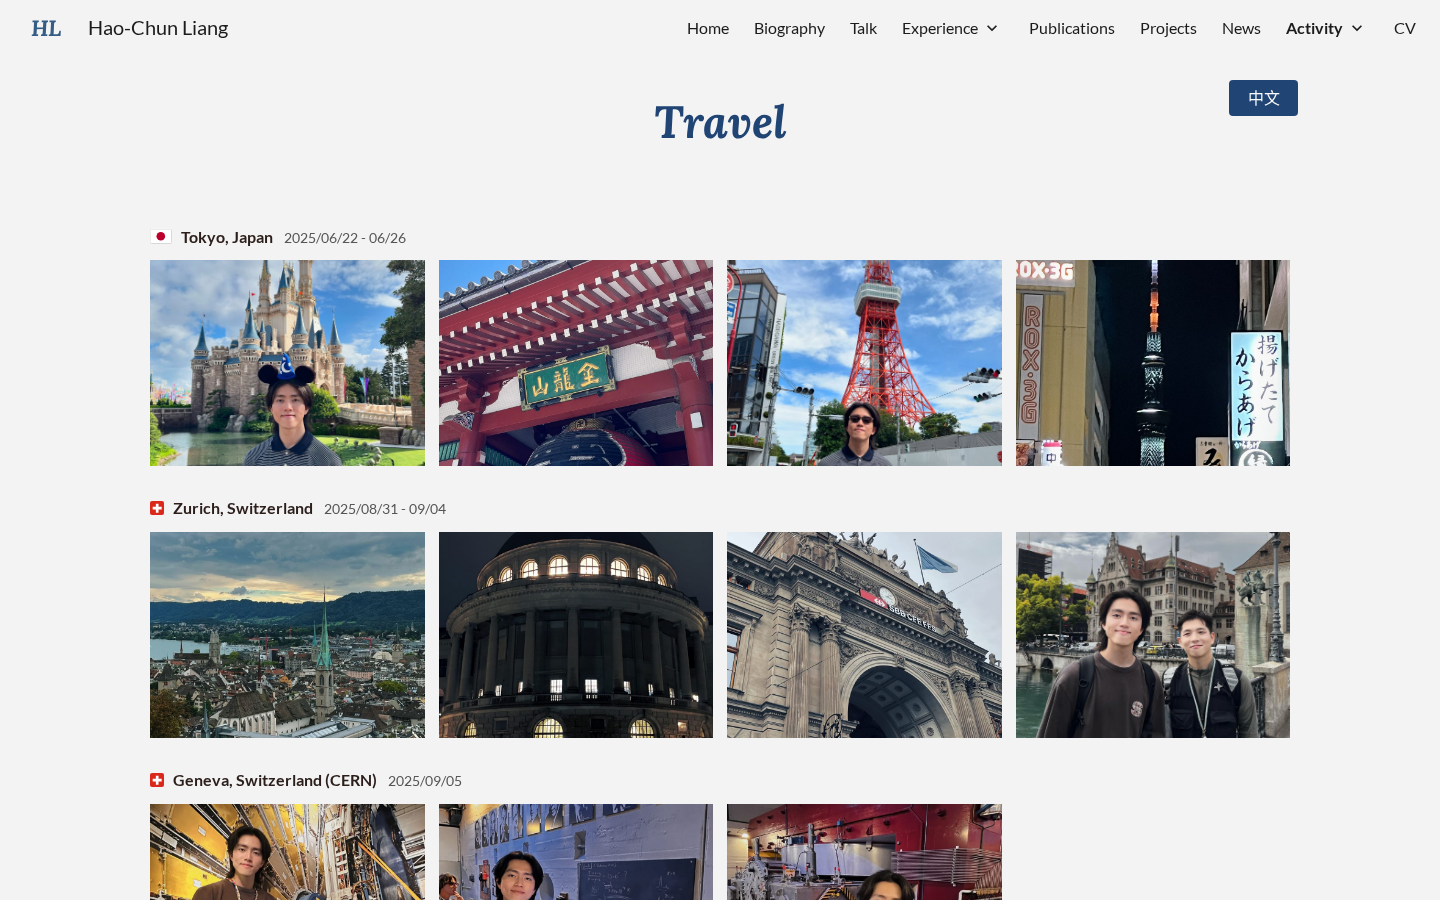
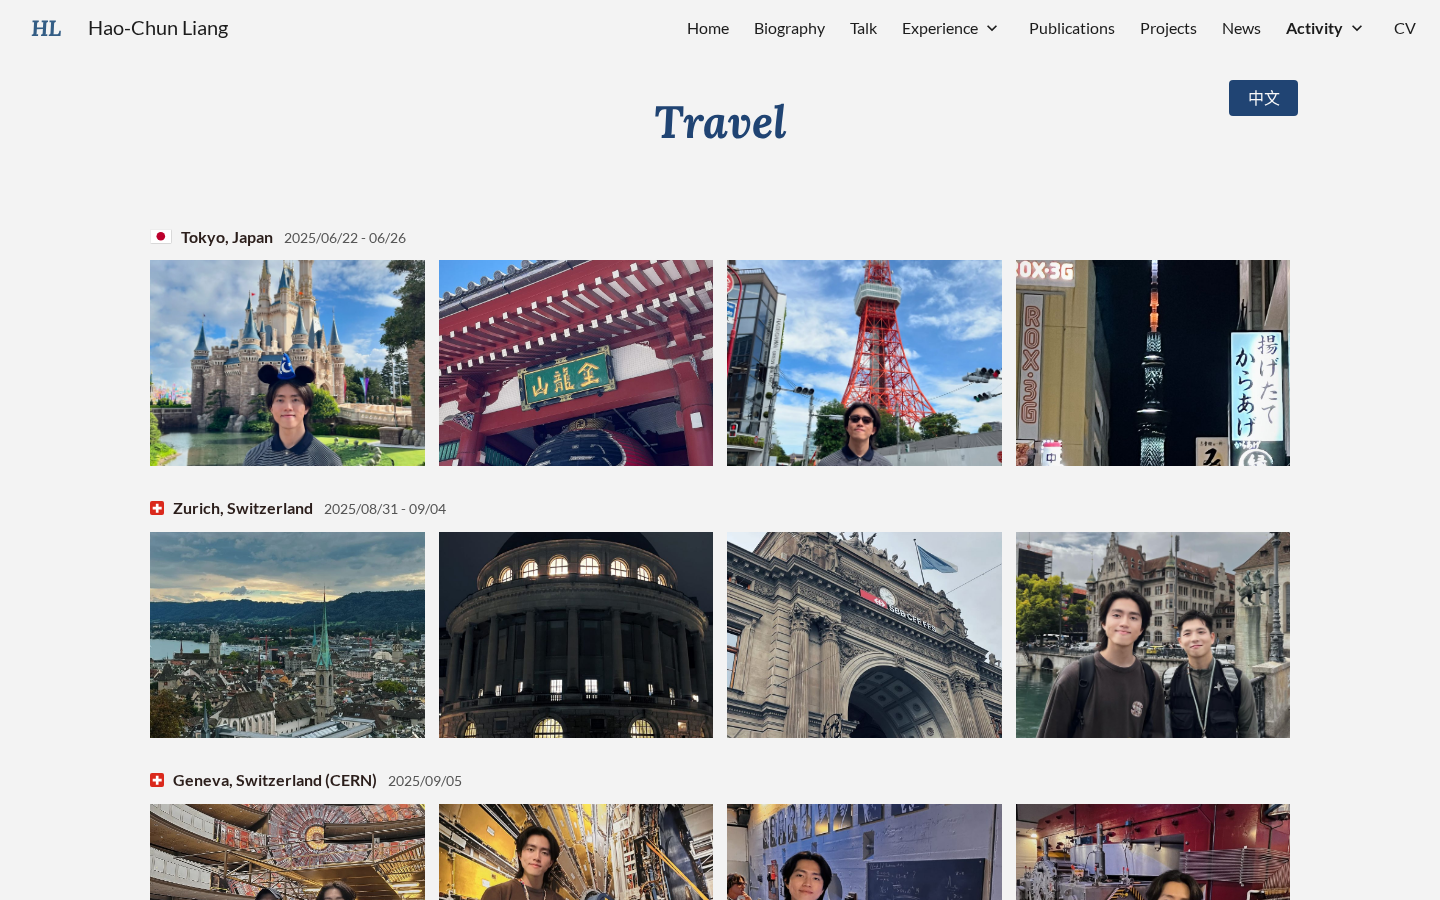
Travel: CERN atrium photo opens the Geneva gallery (EN + ZH)
Cropped from the owner's IG screenshot (the carousel slot is not among the
exported stills); IG overlays cropped out, re-encoded without metadata.

Claude-Session: https://claude.ai/code/session_01YYQQxzKC9fV2djn5XGgtNn

Changed region(s): [[0.0938, 0.8711, 0.9062, 1.0]]

diff --git a/zh/activity/travel/index.html b/zh/activity/travel/index.html
@@ -89,6 +89,7 @@
     </div>
     <h3 class="group"><svg class="flag flag-square" viewBox="0 0 32 32" aria-hidden="true"><rect width="32" height="32" fill="#da291c"/><path d="M13 6h6v7h7v6h-7v7h-6v-7H6v-6h7z" fill="#fff"/></svg> 日內瓦，瑞士（CERN） <span class="trip-dates">2025/09/05</span></h3>
     <div class="gallery">
+      <figure><a href="/images/activity/gallery/travel-cern-atrium.jpg"><img src="/images/activity/gallery/travel-cern-atrium.jpg" alt="在 CERN，日內瓦，瑞士" width="1040" height="1431" loading="lazy"></a></figure>
       <figure><a href="/images/activity/gallery/travel-s37.jpg"><img src="/images/activity/gallery/travel-s37.jpg" alt="日內瓦，瑞士（CERN）" width="900" height="1600" loading="lazy"></a></figure>
       <figure><a href="/images/activity/gallery/travel-s36.jpg"><img src="/images/activity/gallery/travel-s36.jpg" alt="日內瓦，瑞士（CERN）" width="900" height="1600" loading="lazy"></a></figure>
       <figure><a href="/images/activity/gallery/travel-s32.jpg"><img src="/images/activity/gallery/travel-s32.jpg" alt="日內瓦，瑞士（CERN）" width="900" height="1600" loading="lazy"></a></figure>

diff --git a/activity/travel/index.html b/activity/travel/index.html
@@ -89,6 +89,7 @@
     </div>
     <h3 class="group"><svg class="flag flag-square" viewBox="0 0 32 32" aria-hidden="true"><rect width="32" height="32" fill="#da291c"/><path d="M13 6h6v7h7v6h-7v7h-6v-7H6v-6h7z" fill="#fff"/></svg> Geneva, Switzerland (CERN) <span class="trip-dates">2025/09/05</span></h3>
     <div class="gallery">
+      <figure><a href="/images/activity/gallery/travel-cern-atrium.jpg"><img src="/images/activity/gallery/travel-cern-atrium.jpg" alt="At CERN, Geneva, Switzerland" width="1040" height="1431" loading="lazy"></a></figure>
       <figure><a href="/images/activity/gallery/travel-s37.jpg"><img src="/images/activity/gallery/travel-s37.jpg" alt="Geneva, Switzerland (CERN)" width="900" height="1600" loading="lazy"></a></figure>
       <figure><a href="/images/activity/gallery/travel-s36.jpg"><img src="/images/activity/gallery/travel-s36.jpg" alt="Geneva, Switzerland (CERN)" width="900" height="1600" loading="lazy"></a></figure>
       <figure><a href="/images/activity/gallery/travel-s32.jpg"><img src="/images/activity/gallery/travel-s32.jpg" alt="Geneva, Switzerland (CERN)" width="900" height="1600" loading="lazy"></a></figure>
